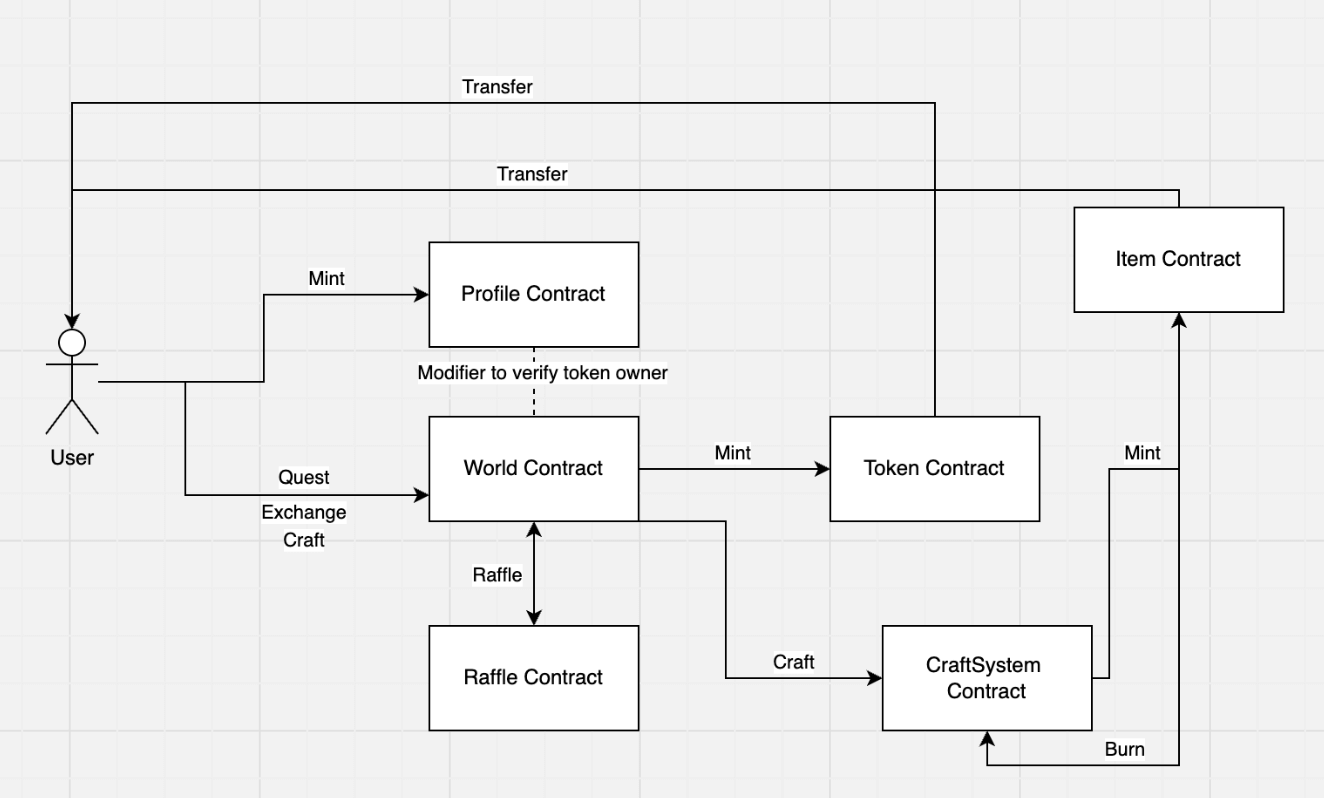
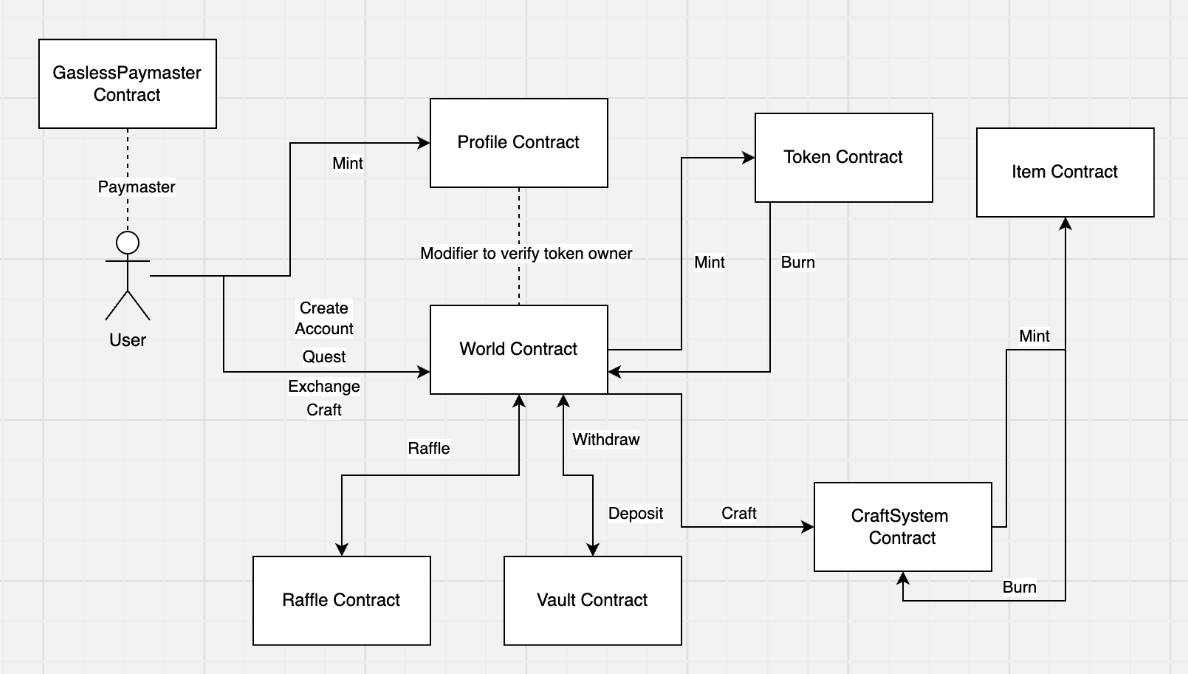
update readme
update readme

diff --git a/README.md b/README.md
@@ -1,33 +1,31 @@
 # vv-zksync-contract
 
 ### Vision
-* On-chain AIGC Survival Sandbox voxel-theme games in which users truly own their assets.
+* On-chain Autonomous Sandbox games. Players can explore, craft, combat, and compete to win prizes.
 
 ### Description
-* We are building a decentralized and On-chain AIGC Survival Sandbox voxel-theme games in which users truly own their assets by leveraging blockchain, IPFS and AI technology.
+* We are building On-chain Autonomous Sandbox games. Players can explore, craft, combat, and compete to win prizes.
 
 ### Problem
--Users do not truly own in-game assets. \
--Centralized and Control by Game Company \
--Limit of game content \
--The game is short-lived and does not sustain game economic
+-Lack of True Ownership: Players do not genuinely own in-game assets. \
+-Centralized Control: Game companies have complete control, limiting player autonomy. \
+-Content Limitations: Restricted game content reduces long-term engagement. \
+-Unsustainable Game Economics: Games often fail to maintain a sustainable economy, leading to short-lived experiences.
 
-### Team Backgroud
--We has experienced in Web3 > 4 years, previous successful NFT launch project that sold for more than 1.5 million USD
 
 ### Technologies Used:
-1. Smart Contract
-1.1 On-chain in-game Items and Token
-1.2 World (Game Logic)
-2. IPFS Storage to store game metadata
-3. WebGL
-4. Web Socket
-5. AI & LLM
+1. Smart Contract(Autonomous World) \
+     1.1 On-chain in-game Items, Token, and NFTs \
+     1.2 Game Logic
+2. WebGL to render game on browser
+3. Game Engine(Real-time Open World, Indexer) utilizes an entire data stored on-chain. 
+4. AI-generated content & LLM
 
 ### Key Features:
-1. On-chain Game Logic eg. Quest(Daily Check-in, Raffle, Mini game), Craft, Item, Token, Profile, and World.
+1. On-chain Game Logic eg. Quest(Daily Check-in, Raffle, Mini game), Craft, Item, Token, Profile, Vault, and World.
 2. Multiplayer
 3. Supported Multi-Platform on browser
+4. Paymaster
 
 ### How it works:
 ![How it works](/howitwork.png "How it works")
@@ -41,9 +39,10 @@ https://zksync.voxelverses.xyz
 * npm run setup
 
 ### Deployed Smart Contract
-1.Profile - NFT Profile to identify unique user https://sepolia.explorer.zksync.io/address/0x0C625C5AB6ec60802511DF11c90A47c5d35810D5 \
-2.Token - ERC20 In-game token https://sepolia.explorer.zksync.io/address/0x753d29A2371a992736aAD46D647AAa1459630d16 \
-3.Item - ERC1155 game item https://sepolia.explorer.zksync.io/address/0xD3B67827f56cFae8c1B17fF23f2A886AbC1EE547 \
-4.World - On-chain game logic https://sepolia.explorer.zksync.io/address/0xD6B783FD0D14ba220Bfb493b4f697De85Fec5001 \
-5.Raffle - Raffle Module for mini game https://sepolia.explorer.zksync.io/address/0xD6B783FD0D14ba220Bfb493b4f697De85Fec5001 \
-8.CraftSystem - Craft system module https://sepolia.explorer.zksync.io/address/0xd3aE73F38575B308394f1bB83DdEDe4c8aFFF7c3
+1. Profile - NFT Profile to identify unique user https://sepolia.explorer.zksync.io/address/0x3c6843A3c8cAa69e843d82617de46A4883a0B4F7
+2. Token - ERC20 In-game token https://sepolia.explorer.zksync.io/address/0x3cA22Bd7d7699340fC12e4B56F6d1b182038bfE6
+3. Item - ERC1155 game item https://sepolia.explorer.zksync.io/address/0xecfA6096A6c35d19933Ea9D0126C81568e4B7f95
+4. World - On-chain game logic https://sepolia.explorer.zksync.io/address/0xE2F279dF93d6C9e991115c281F7733f0d67e3406
+5. Raffle - Raffle Module for mini game https://sepolia.explorer.zksync.io/address/0xE2F279dF93d6C9e991115c281F7733f0d67e3406
+8. CraftSystem - Craft system module https://sepolia.explorer.zksync.io/address/0x6135BEAb54A539b73C552fcaBd97bb44dc5c56c0
+9. Paymaster - Paymaster module https://sepolia.explorer.zksync.io/address/0x47e31CbF55CfcdEE01abeF3153EBDCfBB4a8658B
